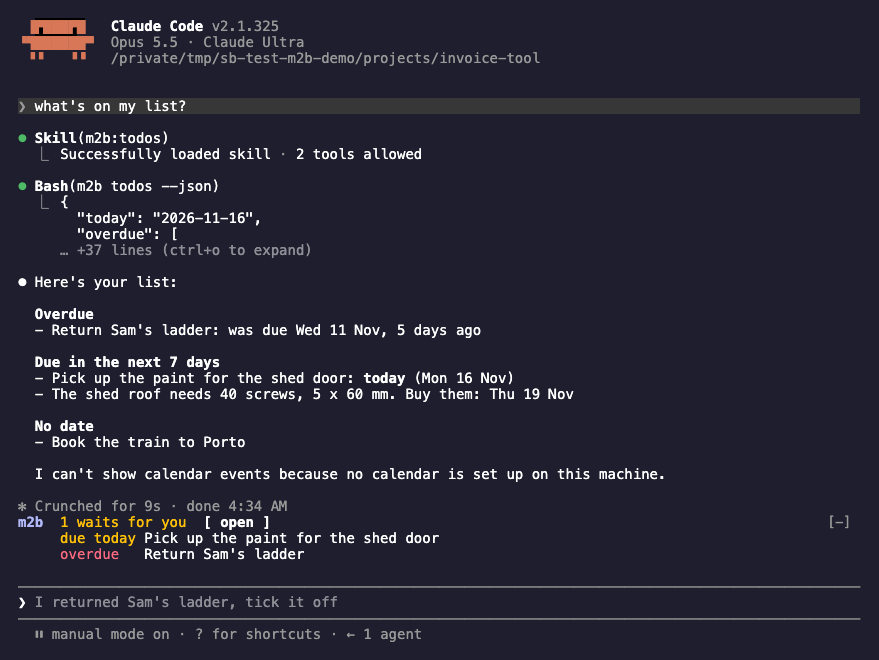
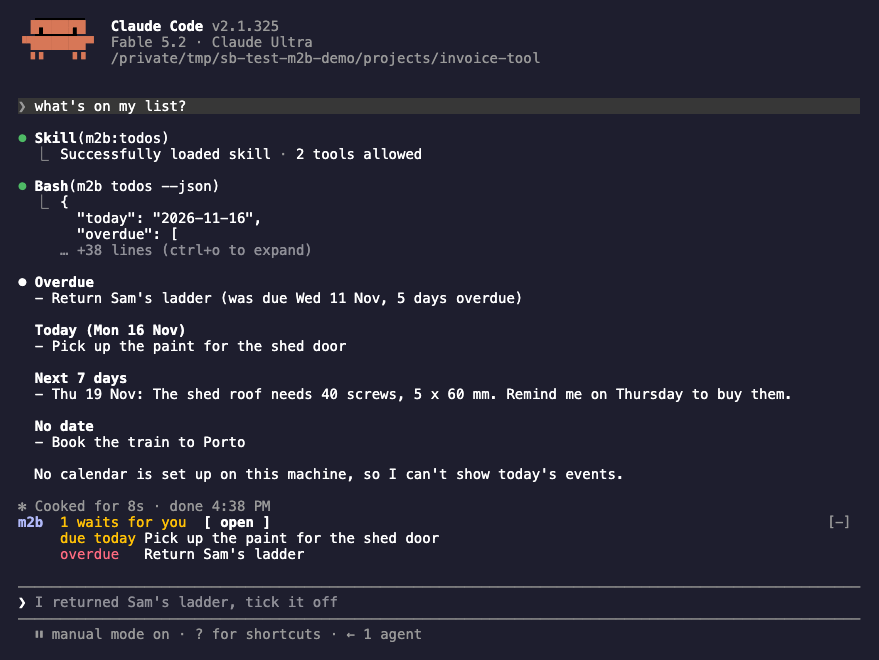
docs(images): a picture of the band below the prompt, and the other pictures recorded again (#31)

diff --git a/scripts/repo_tools/readme_images.py b/scripts/repo_tools/readme_images.py
@@ -81,9 +81,11 @@ REMINDER_DAYS_AHEAD = 3
 @dataclass(frozen=True)
 class Shot:
     """One picture: a session in a terminal of ``columns`` x ``rows`` that types ``prompt`` and is
-    drawn ``answer_seconds`` later. ``fresh_store`` builds the demo store named by ``store`` first;
-    without it the shot runs on the store the shot before it left. ``full_screen`` is Claude Code's
-    fullscreen layout, where m2b's pane sits beside the chat."""
+    drawn ``answer_seconds`` later; a shot without a prompt types nothing and shows the session as it
+    starts. ``fresh_store`` builds the demo store named by ``store`` first; without it the shot runs
+    on the store the shot before it left. ``full_screen`` is Claude Code's fullscreen layout, where
+    m2b's pane sits beside the chat. ``settings`` are set on the demo machine before the session, so
+    a shot that names some builds its own store and no shot runs on the one it leaves."""
 
     name: str
     rows: int
@@ -93,6 +95,7 @@ class Shot:
     store: str = EVERYDAY
     columns: int = COLUMNS
     full_screen: bool = False
+    settings: tuple[tuple[str, str], ...] = ()
 
 
 @dataclass(frozen=True)
@@ -117,7 +120,8 @@ class Recording:
 # In this order: todos runs on the store the capture left, so it lists the task just captured, and
 # both panes show the same run. The shots after todos type a command of the band and wait for no
 # model: two on the main screen, and two with the pane beside the chat, each on a store of its own,
-# so recording one alone leaves the pictures before it as they are.
+# so recording one alone leaves the pictures before it as they are. The last asks nothing: it shows
+# the band at the end of the hint line below the prompt, in a terminal wide enough for every count.
 SHOTS = (
     Shot("session-start", 30, 30, "When does Sam bring the plywood, and where is the spare key for the shed?", True),
     Shot(
@@ -132,6 +136,7 @@ SHOTS = (
     Shot("proposals", 46, 6, "/m2b-proposals", False, AFTER_A_RUN),
     Shot("pane", 25, 6, "/m2b-pane", True, AFTER_A_RUN, WIDE, True),
     Shot("settings", 50, 6, "/m2b-settings", True, AFTER_A_RUN, WIDE, True),
+    Shot("band-below", 12, 6, "", True, EVERYDAY, WIDE, settings=(("band.place", "below"),)),
 )
 
 CORPUS = {
@@ -484,9 +489,13 @@ def reminder_weekday(today: datetime.date) -> str:
 
 
 def steps_for(shot: Shot, today: datetime.date | None = None) -> list[tuple[float, str]]:
-    """Trust the demo folder (the dialog defaults to "No, exit"), let the start settle, ask, wait."""
+    """Trust the demo folder (the dialog defaults to "No, exit"), let the start settle, ask, wait.
+    A shot without a prompt only lets the start settle and waits."""
+    trust = [(8, DOWN), (1, ENTER)]
+    if not shot.prompt:
+        return [*trust, (14 + shot.answer_seconds, "")]
     prompt = shot.prompt.replace(WEEKDAY, reminder_weekday(today or datetime.date.today()))
-    return [(8, DOWN), (1, ENTER), (14, prompt), (1, ENTER), (shot.answer_seconds, "")]
+    return [*trust, (14, prompt), (1, ENTER), (shot.answer_seconds, "")]
 
 
 def session_environment(environ: Mapping[str, str], shot: Shot) -> dict[str, str]:
@@ -592,6 +601,8 @@ def main(argv: Sequence[str] | None = None) -> int:
             for shot in shots_for(arguments.only):
                 if shot.fresh_store:
                     STORES[shot.store](environ)
+                for key, value in shot.settings:
+                    _m2b(environ, "settings", "set", key, value)
                 recording = Path(work) / f"{shot.name}.bin"
                 session = session_environment(environ, shot)
                 drawn = record(claude_command(), PROJECT, session, shot.rows, steps_for(shot), shot.columns)

diff --git a/scripts/repo_tools/tests/test_readme_images.py b/scripts/repo_tools/tests/test_readme_images.py
@@ -232,6 +232,14 @@ class RecordTest(unittest.TestCase):
 
         self.assertEqual(keys, [readme_images.DOWN, readme_images.ENTER, "what's on my list?", readme_images.ENTER, ""])
 
+    def test_a_shot_without_a_prompt_trusts_the_folder_and_types_nothing(self) -> None:
+        shot = readme_images.Shot("band-below", 12, 6, "", True)
+
+        steps = readme_images.steps_for(shot)
+
+        self.assertEqual([keys for _, keys in steps], [readme_images.DOWN, readme_images.ENTER, ""])
+        self.assertEqual(steps[-1][0], 14 + 6)
+
     def test_the_capture_shot_names_a_weekday_a_few_days_ahead_and_never_the_day_of_the_recording(self) -> None:
         (capture,) = [shot for shot in readme_images.SHOTS if shot.name == "capture"]
         monday = datetime.date(2030, 1, 7)
@@ -275,9 +283,26 @@ class ShotsTest(unittest.TestCase):
 
         self.assertEqual(docked, {"pane": readme_images.WIDE, "settings": readme_images.WIDE})
         self.assertGreaterEqual(readme_images.WIDE, 110)
-        self.assertEqual(
-            {shot.columns for shot in readme_images.SHOTS if not shot.full_screen}, {readme_images.COLUMNS}
-        )
+        on_the_main_screen = {shot.name: shot.columns for shot in readme_images.SHOTS if not shot.full_screen}
+        # The hint line below the prompt has room for every count of the band only in a wide terminal.
+        self.assertEqual(on_the_main_screen.pop("band-below"), readme_images.WIDE)
+        self.assertEqual(set(on_the_main_screen.values()), {readme_images.COLUMNS})
+
+    def test_the_shot_of_the_band_below_the_prompt_sets_its_place_and_asks_nothing(self) -> None:
+        (below,) = [shot for shot in readme_images.SHOTS if shot.settings]
+
+        self.assertEqual(below.name, "band-below")
+        self.assertEqual(below.settings, (("band.place", "below"),))
+        self.assertEqual(below.prompt, "")
+
+    def test_a_shot_that_sets_something_builds_its_own_store_and_no_shot_runs_on_what_it_leaves(self) -> None:
+        for index, shot in enumerate(readme_images.SHOTS):
+            if not shot.settings:
+                continue
+            with self.subTest(shot=shot.name):
+                self.assertTrue(shot.fresh_store)
+                self.assertTrue(all(later.fresh_store for later in readme_images.SHOTS[index + 1 : index + 2]))
+                self.assertEqual([each.name for each in readme_images.shots_for(shot.name)], [shot.name])
 
     def test_a_shot_beside_the_chat_is_recorded_alone(self) -> None:
         self.assertEqual([shot.name for shot in readme_images.shots_for("pane")], ["pane"])

diff --git a/README.md b/README.md
@@ -70,7 +70,7 @@ in the one after it ask where the spare key is. [Getting started](docs/getting-s
 what you should see at each step, and [Install](#install) what m2b needs. Before you install:
 [what runs on your machine](#what-runs-on-your-machine) and [uninstalling](#uninstalling).
 
-![A Claude Code session in an unrelated project is asked when Sam brings the plywood and where the spare key for the shed is. Claude calls the m2b search tool once and answers from the notes: Sam said he would bring the plywood on Saturday 14 November (sam.md), and the key is under the blue pot by the back door (house.md). Above the prompt the band is one row, "m2b 1 waits for you" with the button "open", and below it one task due today and one overdue, by name](docs/images/session-start.png)
+![A Claude Code session in an unrelated project is asked when Sam brings the plywood and where the spare key for the shed is. Claude answers from the notes it started with, without a tool call: Sam brings the plywood for the shed roof on 14 November (sam.md), two days before the day of the picture, and the key is under the blue pot by the back door (house.md). Above the prompt the band is one row, "m2b 1 waits for you" with the button "open", and below it one task due today and one overdue, by name](docs/images/session-start.png)
 
 <sub>A new session in an unrelated repository answers from your notes. Above the prompt, [the band](#the-band)
 counts what waits for you and names what is due. All names and notes are invented.</sub>
@@ -164,6 +164,10 @@ it. While nothing waits and no task is to show, the row is `m2b` and `open` alon
 `band.place` moves the band to the end of the hint line below the prompt (`below`) or draws it
 only while it has something to say (`waiting`) ([Where it stands](docs/band.md#where-it-stands)). Below the prompt, a status
 line appears only while something is wrong with m2b.
+
+![A Claude Code session on the main screen with band.place set to below: nothing of m2b stands above the prompt. The hint line below the prompt reads "manual mode on", "? for shortcuts" and "1 agent" in the dim text of Claude Code and ends in "m2b", "1 waits for you", "1 overdue" and "1 due today" in their colors and the command /m2b-pane, dim](docs/images/band-below.png)
+
+<sub>The band with `band.place` set to `below`: at the end of the hint line below the prompt, in a terminal of 130 columns.</sub>
 
 `/m2b-review` opens the pane in the picture with the whole last run, `/m2b-proposals` the
 proposals from your sessions, `/m2b-search <text>` search hits, and `/m2b-note <text>` notes a

diff --git a/docs/band.md b/docs/band.md
@@ -104,6 +104,10 @@ The way into the pane is the button `open` under the fullscreen layout, where a 
 presses it. No key reaches a button below the prompt, and outside the fullscreen layout no click
 does either, so there the line names the command `/m2b-pane`, dim, where the button would stand.
 
+![A Claude Code session on the main screen with band.place set to below: nothing of m2b stands above the prompt. The hint line below the prompt reads "manual mode on", "? for shortcuts" and "1 agent" in the dim text of Claude Code and ends in "m2b", "1 waits for you", "1 overdue" and "1 due today" in their colors and the command /m2b-pane, dim](images/band-below.png)
+
+<sub>One real Claude Code session on a demo machine with invented notes, recorded by `scripts/readme-images --only band-below` in a terminal of 130 columns. Nothing is typed and no model is asked.</sub>
+
 m2b draws its part only where the line has room for it, and never cuts Claude Code's text. The
 room is counted with Claude Code's hint and with 27 cells for the label of the session's mode,
 which Claude Code draws before the hint: the widest one, `bypass permissions on`. Where the line

diff --git a/CONTRIBUTING.md b/CONTRIBUTING.md
@@ -419,7 +419,7 @@ The screenshots in `docs/images/` come from real Claude Code sessions against a 
 invented data. After a change the README pictures show, record them again:
 
 ```bash
-scripts/readme-images                # all seven
+scripts/readme-images                # all eight
 scripts/readme-images --only todos   # one, with the one its store depends on
 ```
 
@@ -441,7 +441,9 @@ an invented session in a Claude Code folder of the demo's own. Its memory holds 
 customer the demo project's folder names, so the pane's start view lists a topic the session was
 given. Your sessions are never read, and the four pictures differ between recordings only in
 their dates and times. `pane` and `settings` each build that store themselves, so `--only` records
-one of them alone.
+one of them alone. The eighth, `band-below`, types nothing: on the everyday store with
+`band.place` set to `below`, on the main screen in a terminal of 130 columns, it shows the band
+at the end of the hint line below the prompt with every count. It builds its store itself.
 
 Three pictures move. `scripts/readme-demo` records all of them, `--only <name>` one:
 
